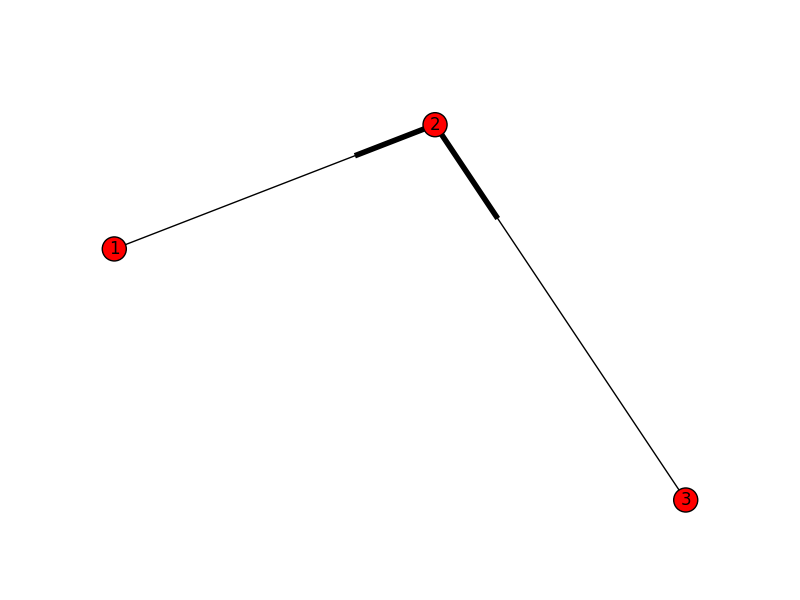
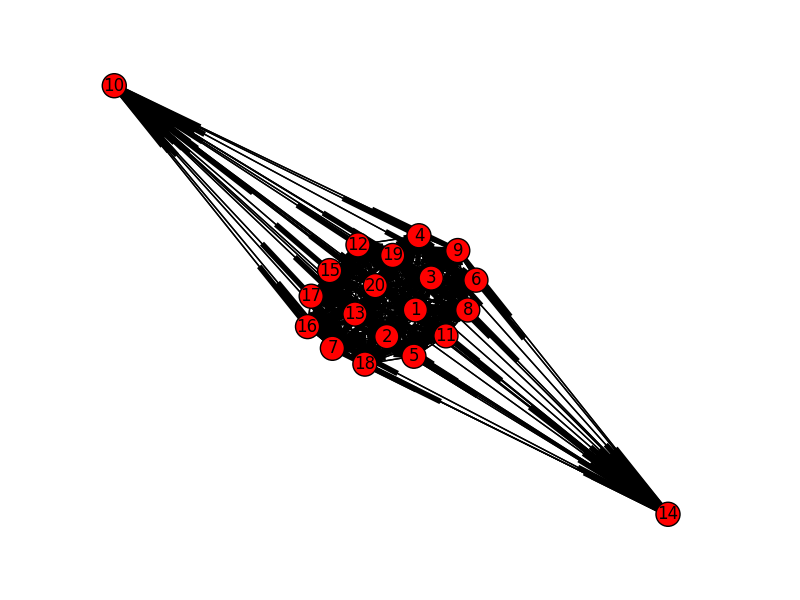
Bellman Ford funzionante (???)

diff --git a/main.py b/main.py
@@ -3,6 +3,7 @@ import networkx as nx
 import matplotlib.pyplot as plt
 #from PriorityDijkstra import dijkstra2,dijkstra
 from BellmanFord import bellmanford
+from generatore2 import generatore
 from time import time           #from graph_tool.all import *
 
 class City:
@@ -105,7 +106,7 @@ class Grafo:
 
 
 def main(file):
-    result = lettura(file)
+    result = generatore()
     G = Grafo()
     Gr = nx.DiGraph()
           #E' il secondo esempio del file input nel progetto
@@ -119,7 +120,7 @@ def main(file):
 
     #print G.streets[6]
     #dijkstra2(G,1,7)
-    bellmanford(G,3)
+    bellmanford(G,5)
     nx.draw(Gr)
     plt.savefig("path.png")
 
